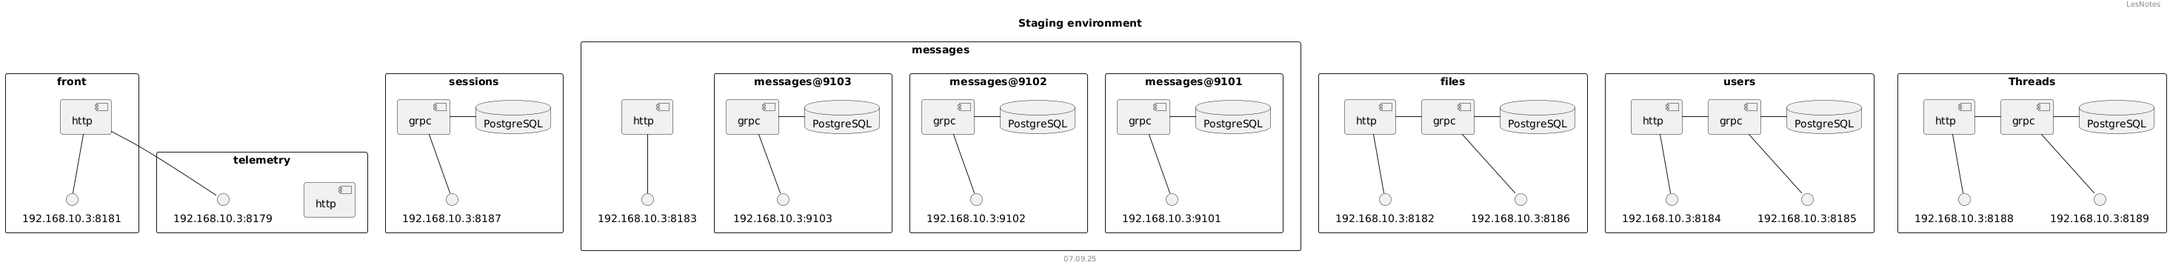
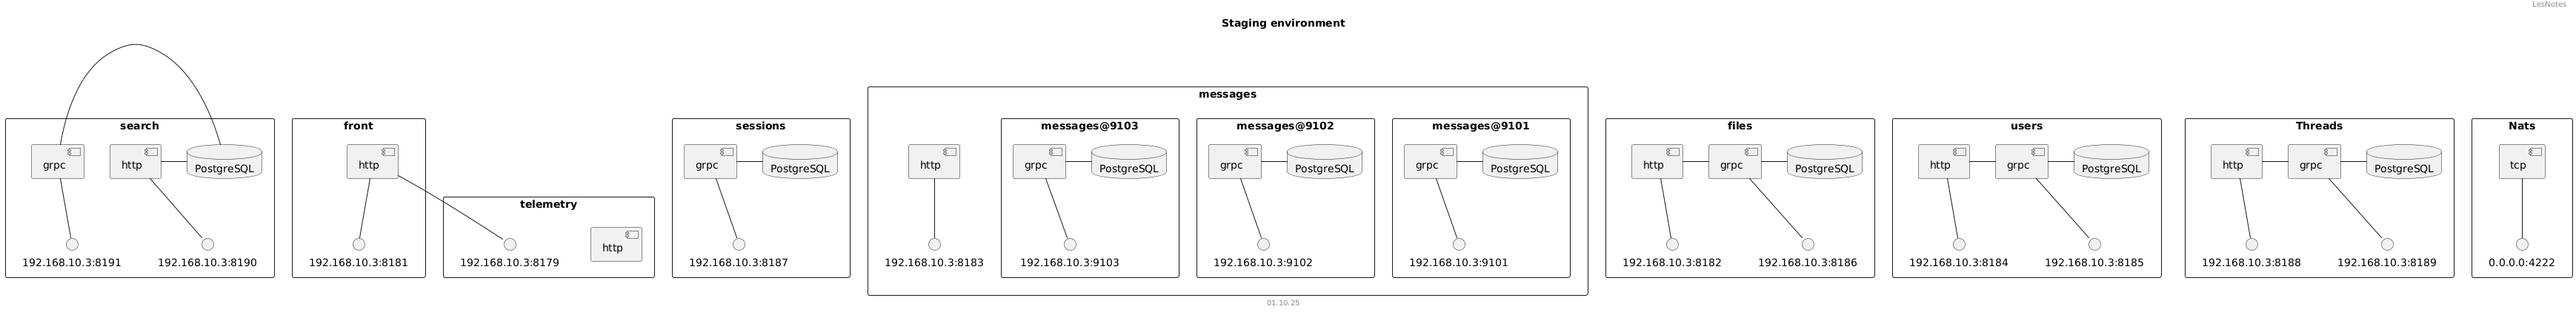
add nats service; init ddd events

diff --git a/server/ddd/event_dispatcher.go b/server/ddd/event_dispatcher.go
@@ -1,0 +1,76 @@
+package ddd
+
+import (
+	"context"
+	"sync"
+)
+
+type (
+	EventHandler[T Event] interface {
+		HandleEvent(ctx context.Context, event T) error
+	}
+
+	EventSubscriber[T Event] interface {
+		Subscribe(handler EventHandler[T], events ...string)
+	}
+
+	EventPublisher[T Event] interface {
+		Publish(ctx context.Context, events ...T) error
+	}
+
+	EventDispatcher[T Event] struct {
+		mu       sync.Mutex
+		handlers []eventHandler[T]
+	}
+
+	eventHandler[T Event] struct {
+		h EventHandler[T]
+		filters map[string]struct{}
+	}
+)
+
+var _ interface {
+	EventSubscriber[Event]
+	EventPublisher[Event]
+} = (*EventDispatcher[Event])(nil)
+
+func NewEventDispatcher[T Event]() *EventDispatcher[T] {
+	return &EventDispatcher[T]{
+		handlers: make([]eventHandler[T], 0),
+	}
+}
+
+func (h *EventDispatcher[T]) Subscribe(handler EventHandler[T], events ...string) {
+	h.mu.Lock()
+	defer h.mu.Unlock()
+
+	var filters map[string]struct{}
+	if len(filters) > 0 {
+		filters := make(map[string]struct{})
+		for _, event := range events {
+			filters[event] = struct{}{}
+		}
+	}
+
+	h.handlers = append(h.handlers, eventHandler[T]{
+		h: handler,
+		filters: filters,
+	})
+}
+
+func (h *EventDispatcher[T]) Publish(ctx context.Context, events ...T) error {
+	for _, event := range events {
+		for _, handler := range h.handlers {
+			if handler.filters != nil {
+				if _, exists := handler.filters[event.EventName()]; !exists {
+					continue
+				}
+			}
+			err := handler.h.HandleEvent(ctx, event)
+			if err != nil {
+				return err
+			}
+		}
+	}
+	return nil
+}

diff --git a/server/ddd/event.go b/server/ddd/event.go
@@ -1,0 +1,44 @@
+package ddd
+
+import (
+	"time"
+	"github.com/google/uuid"
+)
+
+type (
+	EventPayload interface {}
+
+	Event interface {
+		IDer
+		EventName()  string
+		Payload()    EventPayload
+		OccurredAt() time.Time
+	}
+
+	IDer interface {
+		ID() string
+	}
+
+	event struct {
+		id         string
+		name       string
+		occurredAt time.Time
+		payload    EventPayload
+	}
+)
+
+var _ Event = (*event)(nil)
+
+func NewEvent(name string, payload EventPayload) event {
+	return event{
+		id:         uuid.New().String(),
+		name:       name,
+		occurredAt: time.Now(),
+		payload:    payload,
+	}
+}
+
+func (e event) ID() string { return e.id }
+func (e event) EventName() string { return e.name }
+func (e event) OccurredAt() time.Time { return e.occurredAt }
+func (e event) Payload() EventPayload { return e.payload }
